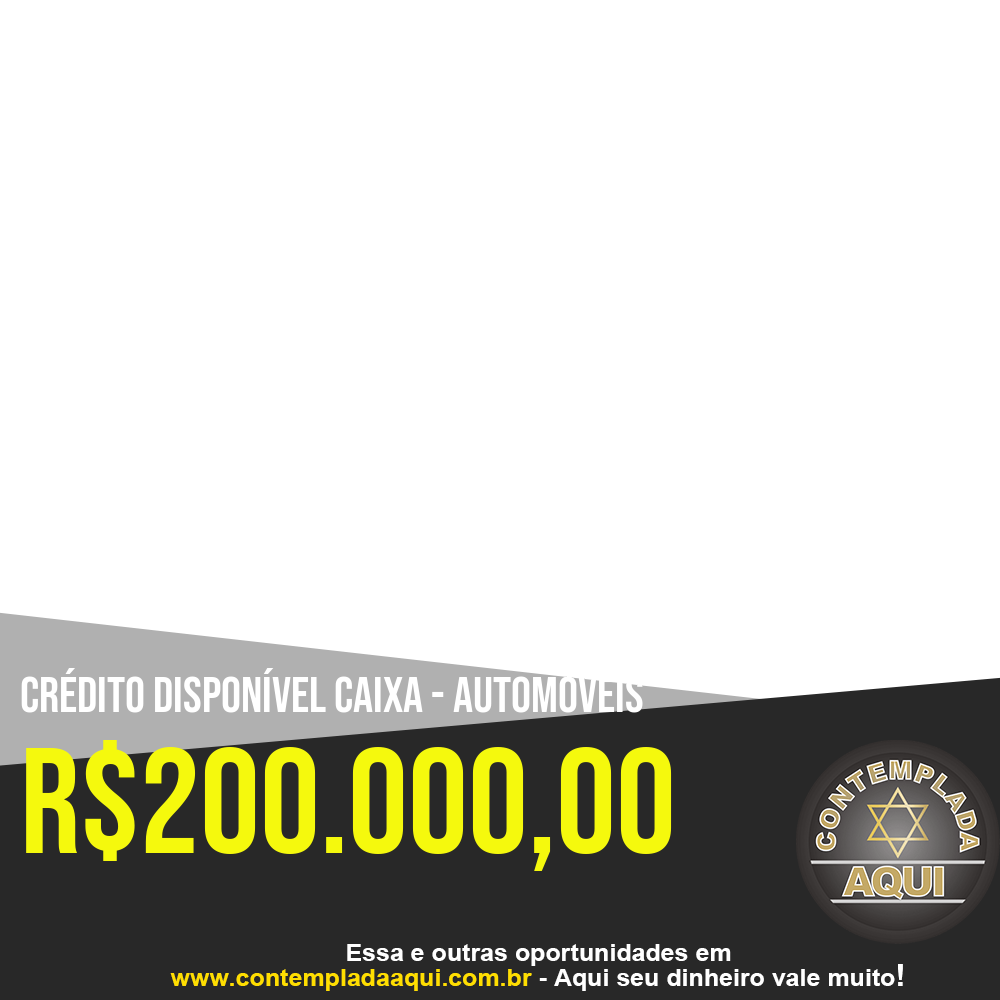
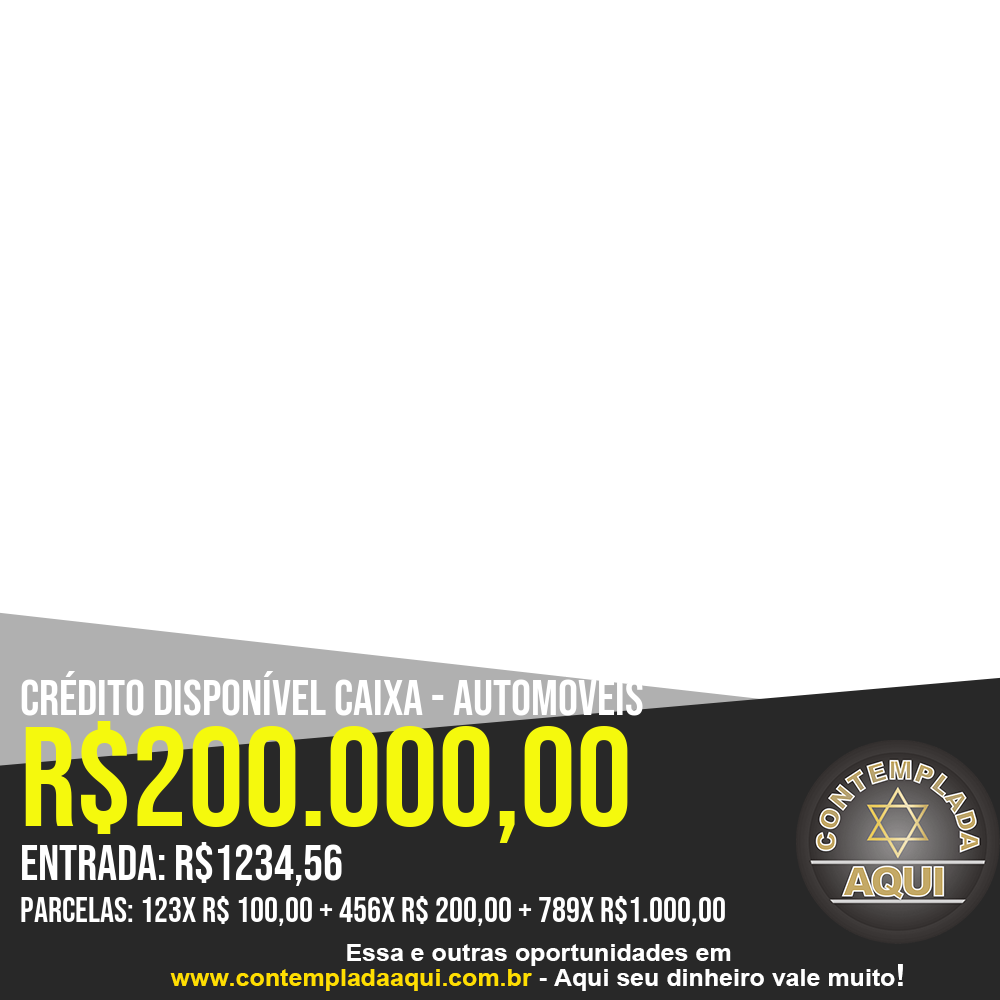
create template

Changed region(s): [[0.0, 0.651, 0.744, 0.93], [0.248, 0.651, 0.279, 0.682]]

diff --git a/imgtext.py b/imgtext.py
@@ -1,38 +1,28 @@
-from PIL import Image, ImageFont, ImageDraw 
-
-"""
-SEGMENTOS
-X: 20, Y: 667
-
-CREDITO:
-X: 20, Y: 718
-
-ENTRADA: 
-X: 20, Y: 830
-
-PARCELAS: 
-X: 20, Y: 880
-"""
+from PIL import Image, ImageFont, ImageDraw
 
 my_image = Image.open("template_blank.png")
 my_image = my_image.convert('RGBA')
-valor_font = ImageFont.truetype('bebas_neue/BebasNeue-Regular.ttf', 150)
-parcelas_font = ImageFont.truetype('bebas_neue/BebasNeue-Regular.ttf', 50)
+valor_font = ImageFont.truetype('bebas_neue/BebasNeue-Regular.ttf', 140)
+parcelas_font = ImageFont.truetype('bebas_neue/BebasNeue-Regular.ttf', 35)
+entrada_font = ImageFont.truetype('bebas_neue/BebasNeue-Regular.ttf', 50)
 
 segmento = "Crédito disponível CAIXA - Automóveis"
 valor = "R$200.000,00"
 entrada = "Entrada: R$1234,56"
-parcelas = "123x R$ 100,00 + 456x R$ 200,00"
+parcelas = "Parcelas: 123x R$ 100,00 + 456x R$ 200,00 + 789x R$1.000,00"
 
 
 image_editable = ImageDraw.Draw(my_image)
 
 
 
-image_editable.text((20,667), segmento, (255,255,255), font=parcelas_font)
+image_editable.text((20,670), segmento, (255,255,255), font=entrada_font)
 #                     X,Y        TEXTO      R  G  B       FONTE
-image_editable.text((20,718), valor, (245,249,13), font=valor_font)
+image_editable.text((20,700), valor, (245,249,13), font=valor_font)
 
+image_editable.text((20,835), entrada, (255,255,255), font=entrada_font)
+
+image_editable.text((20,890), parcelas, (255,255,255), font=parcelas_font)
 
 my_image.save("result.png")
 
